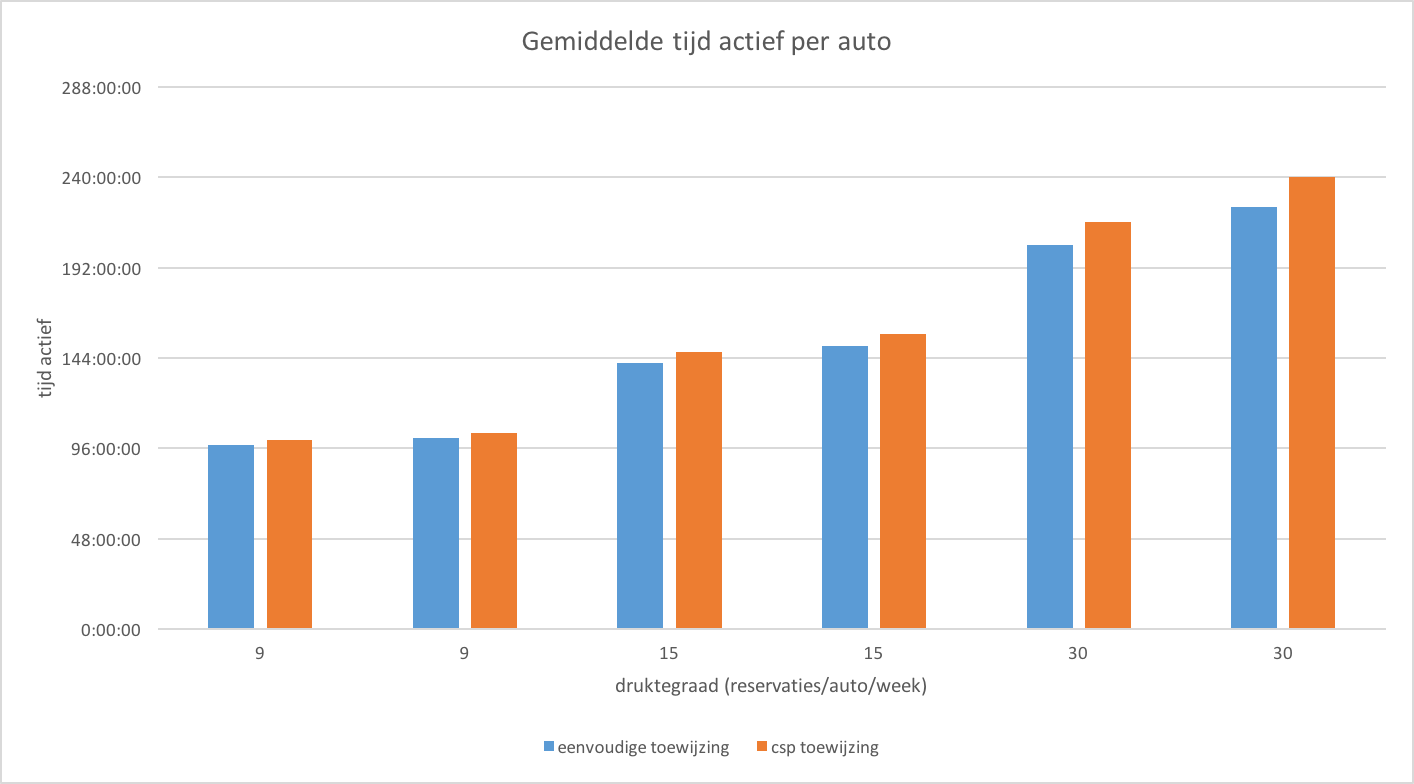
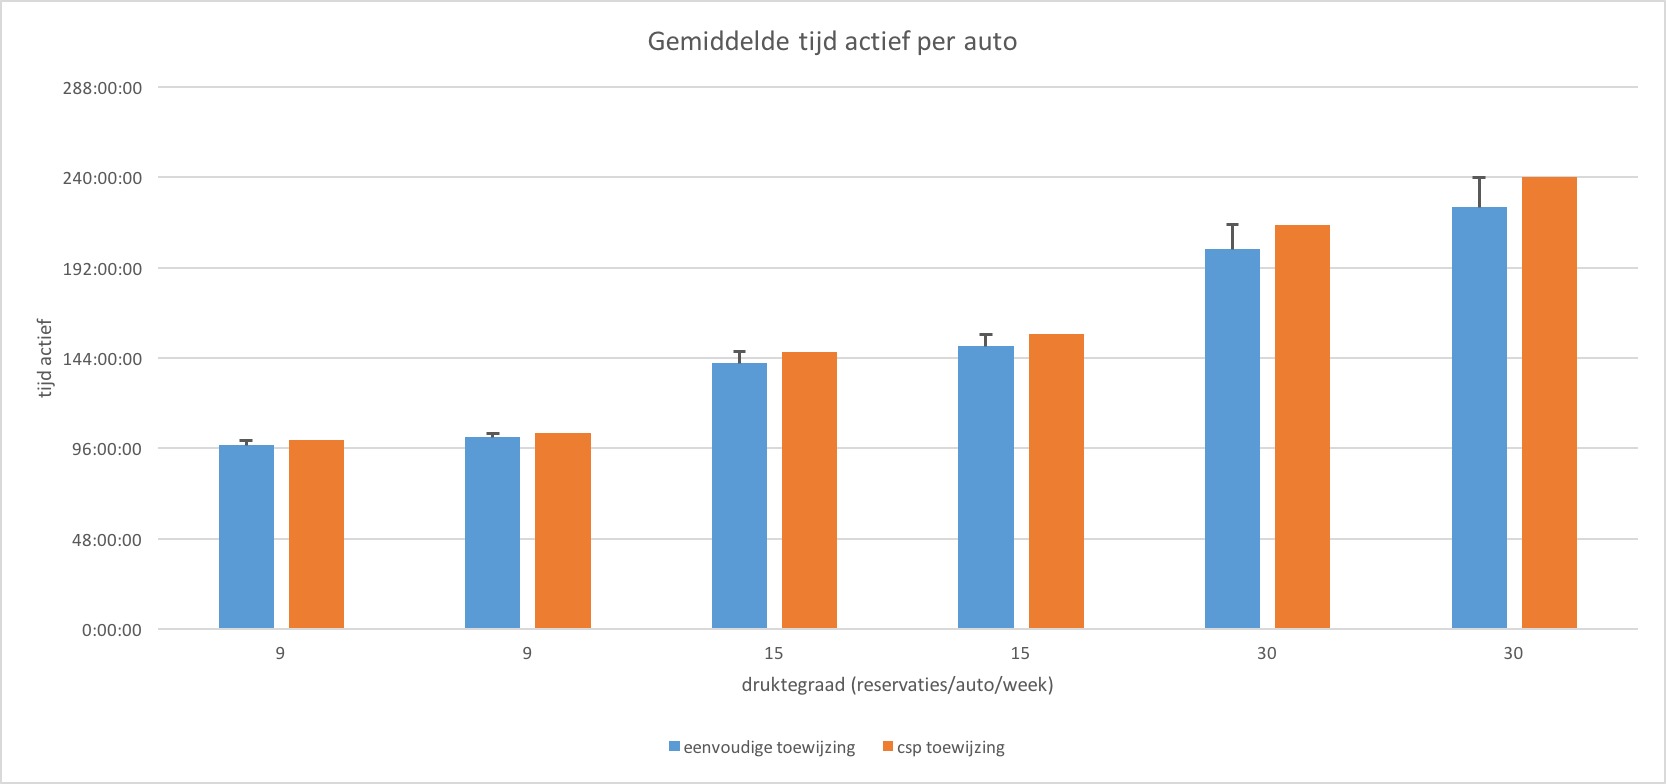
grafieken verbeteren + rerun one of the simulations

diff --git a/bachproef/simulaties.tex b/bachproef/simulaties.tex
@@ -1,6 +1,6 @@
 \chapter{\IfLanguageName{dutch}{Resultaten van de simulaties}{Results of the simulations}}
 \label{ch:resultaten-simulaties}
-In dit hoofdstuk worden de resultaten van de verschillende simulaties weergeven. De simulaties worden uitgevoerd met een zelf geschreven simulatietool waarvan de code zich in bijlage bevindt. Voor elke set van parameters in tabel \ref{tab:parameters} voeren we 30 maal een simulatie uit. De simulatietool slaat voor elke run van een simulatie het service level, de duur dat de auto's actief waren en de duur van reservaties die niet konden worden toegewezen op in een bestand voor zowel de eenvoudige toewijzing als voor de CSP toewijzing. Deze bestanden worden geanalyseerd met behulp van een rekenblad.
+In dit hoofdstuk worden de resultaten van de verschillende simulaties weergeven. De simulaties worden uitgevoerd met een zelf geschreven simulatietool waarvan de code zich in bijlage bevindt. Voor elke set van parameters in tabel \ref{tab:parameters} voeren we 30 maal een simulatie uit. De simulatietool slaat voor elke run van een simulatie het service level, de duur dat de auto's actief waren en de duur van reservaties die niet konden doorgaan omdat er geen auto beschikbaar was op in een bestand voor zowel de eenvoudige toewijzing als voor de CSP toewijzing. Deze bestanden worden geanalyseerd met behulp van een rekenblad.
 In de volgende secties worden de resultaten van de simulaties weergeven met volgende symbolen:
 \begin{itemize}
 	\item $\mu_{ SL}$: het gemiddelde service level
@@ -9,11 +9,17 @@ In de volgende secties worden de resultaten van de simulaties weergeven met volg
 	\item $\mu_{\Delta_{ SL}}$: gemiddelde verbetering service level
 	\item $\mu_{\Delta_{ t}}$: gemiddelde verbetering actieve tijd
 \end{itemize}
+Elke simulatie wordt 30 maal uitgevoerd. Een voorbeeld van de ruwe output data van een simulatie voor het service level wordt weergeven in figuur \ref{grafiek:ruwe-output-simulatie}. Een gelijkaardige grafiek kan opgesteld worden voor de actieve tijd van de auto's alsook van de tijd van de reservaties die niet konden doorgaan.
+\begin{figure}[h]
+	\includegraphics[width=\textwidth]{grafiek-ruwe-output-simulatie.png}
+	\caption[Grafiek die de ruwe output data voor het service level van 30 runs van een simulatie weergeeft]{Grafiek die de ruwe output data voor het service level van 30 runs van een simulatie weergeeft}
+	\label{grafiek:ruwe-output-simulatie}
+\end{figure}
 
 \section{Druktegraad: 9 reservaties/week/auto}
 Er werden 2 sets van parameters samengesteld met een druktegraad van 9 reservaties per week per auto. 
-De eerste set bestaat uit 108 reservaties verdeeld over 4 weken voor 3 auto's, de tweede bestaat uit 180 reservaties verdeeld over 4 weken voor 5 auto's. 
-De resultaten van de simulatie worden weergeven in tabel \ref{tab:resultaten9}
+De eerste simulatie bestaat uit 108 reservaties verdeeld over 4 weken voor 3 auto's, de tweede bestaat uit 180 reservaties verdeeld over 4 weken voor 5 auto's. 
+De gemiddelde resultaten van de simulatie worden weergeven in tabel \ref{tab:resultaten9}
 \begin{table}[h]
 	\centering
 	\begin{tabular}{ | c | p{1.5cm} | p{1.5cm} | p{1.5cm} | p{1.5cm} | p{1.5cm} | p{1.5cm} | p{1.5cm} | p{1.5cm} |}
@@ -25,6 +31,7 @@ De resultaten van de simulatie worden weergeven in tabel \ref{tab:resultaten9}
 	\caption{Tabel met resultaten van de simulaties met als druktegraad 9 reservaties per week per auto}
 	\label{tab:resultaten9}
 \end{table}
+
 \section{Druktegraad: 15 reservaties/week/auto}
 Er werden 2 sets van parameters samengesteld met een druktegraad van 15 reservaties per week per auto. 
 De eerste set bestaat uit 180 reservaties verdeeld over 4 weken voor 3 auto's, de tweede bestaat uit 300 reservaties verdeeld over 4 weken voor 5 auto's. 
@@ -35,7 +42,7 @@ De resultaten van de simulatie worden weergeven in tabel \ref{tab:resultaten15}
 		\hline
 		auto's & $\mu_{ SL}$ eenvoudig & $\sigma^2$ eenvoudig & $\mu_{ t}$ per auto eenvoudig & $\mu_{ SL}$ csp & $\sigma^2$ csp & $\mu_{ t}$ per auto csp & $\mu_{\Delta_{ SL}}$ & $\mu_{\Delta_{ t}}$ \\ \hline
 		3 & 85,54 & 2,40 & 141h09m & 86,98 & 2,45 & 147h08m & 1,44 & 17h56m  \\ \hline
-		5 & 90,4 & 1,79 & 150h09m & 91,87 & 1,66 & 156h39m & 0,47 & 32h28m \\ \hline
+		5 & 90,4 & 1,79 & 150h09m & 91,87 & 1,66 & 156h39m & 1,47 & 32h28m \\ \hline
 	\end{tabular}
 	\caption{Tabel met resultaten van de simulaties met als druktegraad 15 reservaties per week per auto}
 	\label{tab:resultaten15}
@@ -49,7 +56,7 @@ De resultaten van de simulatie worden weergeven in tabel \ref{tab:resultaten30}
 	\begin{tabular}{ | c | p{1.5cm} | p{1.5cm} | p{1.5cm} | p{1.5cm} | p{1.5cm} | p{1.5cm} | p{1.5cm} | p{1.5cm} |}
 		\hline
 		auto's & $\mu_{ SL}$ eenvoudig & $\sigma^2$ eenvoudig & $\mu_{ t}$ per auto eenvoudig & $\mu_{ SL}$ csp & $\sigma^2$ csp & $\mu_{ t}$ per auto csp & $\mu_{\Delta_{ SL}}$ & $\mu_{\Delta_{ t}}$ \\ \hline
-		3 & 67,46 & 2,49 & 203h47m & 68,56 & 2,36 & 216h14m & 1,10 & 37h20m  \\ \hline
+		3 & 67,18 & 1,77 & 201h51m & 68,45 & 1,95 & 214h48m & 1,27 & 38h52m  \\ \hline
 		5 & 72,44 & 1,83 & 224h09m & 73,93 & 2,61 & 156h39m & 1,48 & 79h50m \\ \hline
 	\end{tabular}
 	\caption{Tabel met resultaten van de simulaties met als druktegraad 30 reservaties per week per auto}

diff --git a/bachproef/bachproef-tin.tex b/bachproef/bachproef-tin.tex
@@ -120,7 +120,7 @@ Het onderwerp van deze bachelorproef is gebaseerd op een onderzoeksvoorstel dat 
 
 \chapter{Code simulatietool}
 De volledige code kan op aanvraag geraadpleegd worden op: https://github.com/timalenus/partago-bp
-De code is afhankelijk van gesloten software waarvan Partag eigenaar is. Voor deze reden wordt de volledige broncode niet publiekelijk opgenomen bij deze bachelorproef. Een deel van de code werd wel opgenomen verder in deze appendix.
+De code is afhankelijk van gesloten software waarvan Partago eigenaar is. Voor deze reden wordt de volledige broncode niet publiekelijk opgenomen bij deze bachelorproef. Een deel van de code werd wel opgenomen verder in deze appendix.
 \lstinputlisting[breaklines=true]{source-code-simulation-tool.dart}
 
 %%---------- Andere bijlagen --------------------------------------------------
